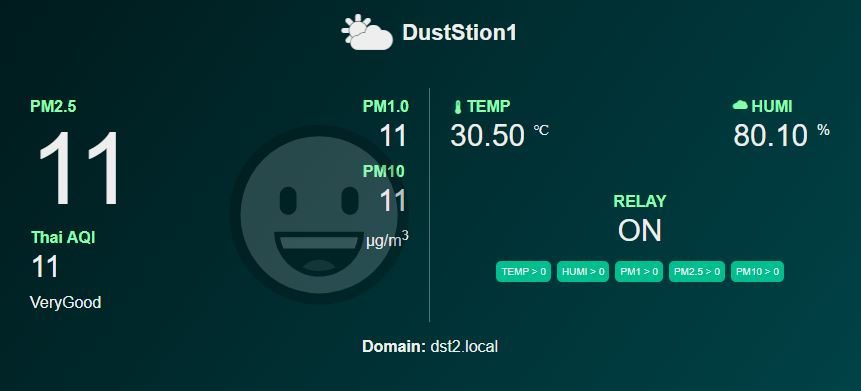
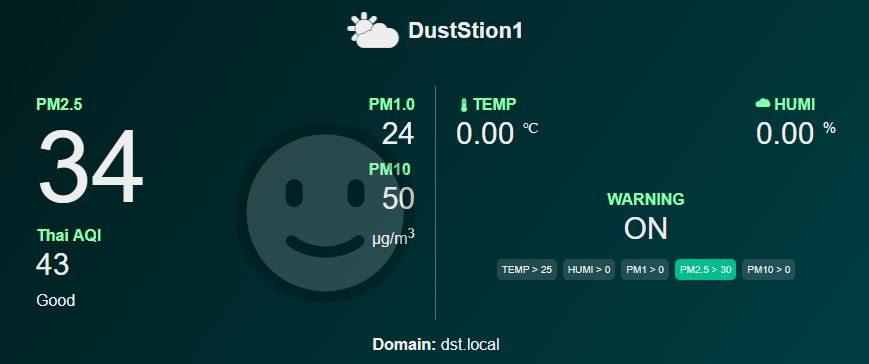
update image

diff --git a/README.md b/README.md
@@ -8,12 +8,12 @@
 - แสดงผลค่าฝุ่นละอองขนาดเล็ก PM1.0 , PM2.5 และ PM10
 - แสดงผลค่าดัชนีคุณภาพอากาศ (PM2.5 Air Quality Index : AQI) อ้างอิงจาก http://air4thai.pcd.go.th/webV2/aqi_info.php
 - แสดงผลค่าอุณหภูมิ และความชื้น
-- แสดงสถานะการควบคุมสั่งงานผ่าน RELAY
+- แสดงสถานะการเตือน (WARNING)
 - แสดงสถานะเงื่อนไขสั่งงานที่ได้ตั้งค่าไว้ล่วงหน้า
 
 ## ฟีเจอร์การตั้งค่า
 - ตั้งค่าการเชื่อมต่อ WiFi
-- ตั้งค่าเงื่อนไขสั่งงาน RELAY
+- ตั้งค่าเงื่อนไขการเตือน (WARNING)
 - ตั้งค่าชื่อและไอดีอุปกรณ์
 - การตั้งค่าผ่าน WiFi AP Mode
 
